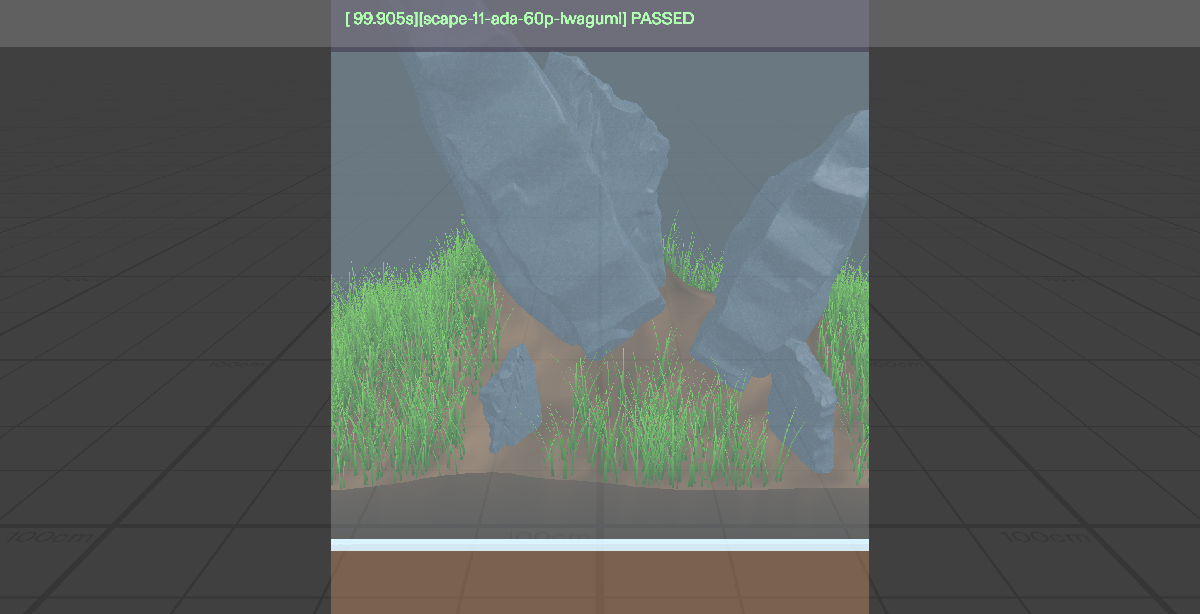
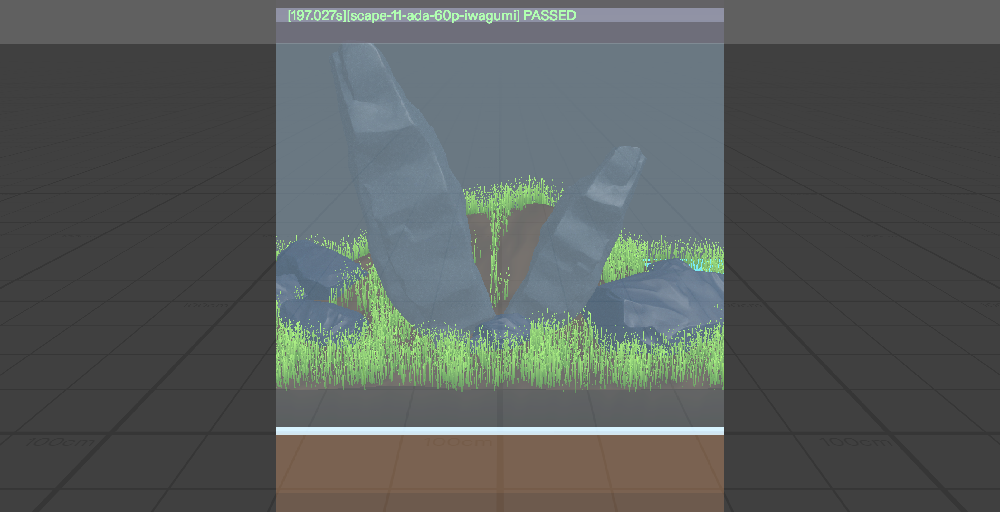
feat: dark slate stone, lawn-like hairgrass, photo-faithful ADA 60P layout
- New Meshy model: flat dark slate (Slate in the Stones tab).
- Hairgrass: shorter, denser, finer, brighter and upright; grass grows up to
  the stone foot; darker soil.
- Spawn falls back to the least-overlapping spot; mounds may run into the
  glass; Seiryu darker.
- Main.moveSelectedTo for scripted layouts; the ADA scenario now places the
  ten stones and the soil ridge where they are in the reference photo.

Changed region(s): [[0.0, 0.0, 1.0, 0.9062], [0.682, 0.25, 0.744, 0.3125], [0.682, 0.1875, 0.744, 0.2188]]

diff --git a/Assets/Tests/ScapePlannerAdaScenario.ts b/Assets/Tests/ScapePlannerAdaScenario.ts
@@ -3,7 +3,8 @@
 // substrate mounded toward the middle and back, and dwarf hairgrass over the whole floor.
 // It asserts nothing; it is a showcase and a check that the tools are enough.
 import { Scenario } from "Leaf.lspkg/Scenarios/scenario/Scenario";
-import { sleep } from "Leaf.lspkg/Utils/common/Utils";
+import { findSceneObjectsByName, sleep } from "Leaf.lspkg/Utils/common/Utils";
+import { ScapePlannerMain } from "../Scripts/ScapePlannerMain";
 import { ScapePlannerLeafInteractor } from "./ScapePlannerLeafInteractor";
 
 @component
@@ -30,38 +31,65 @@ export class ScapePlannerAdaScenario extends Scenario {
     await sleep(holdMs);
   }
 
+  /** Place a slate, size it (+ bigger, - smaller), turn it, optionally mirror it, and drag it to (x, z). */
+  private async slate(x: number, z: number, size: number, turns: number, mirror: boolean): Promise<void> {
+    await this.place("slate");
+    if (size > 0) await this.tap("Button_bigger", size);
+    if (size < 0) await this.tap("Button_smaller", -size);
+    if (turns > 0) await this.tap("Button_rotate", turns);
+    if (mirror) await this.tap("Button_mirror");
+    await this.moveTo("Piece_Slate", x, z);
+  }
+
+  /**
+   * Put the selected (just placed) piece at tank-local (x, z). LEAF drags cannot land on a
+   * precise spot, so the showcase uses Main's scripted move, which ends like a drag release.
+   */
+  private async moveTo(_name: string, x: number, z: number): Promise<void> {
+    const main = findSceneObjectsByName("ScapePlanner")[0].getComponent(ScapePlannerMain.getTypeName()) as ScapePlannerMain;
+    main.moveSelectedTo(x, z);
+    await sleep(150);
+  }
+
   async run(): Promise<void> {
     await sleep(1000);
     await this.tap("Button_clear");
 
-    // Substrate: a soil ridge through the middle and back, sand left plain at the front corners.
+    // Substrate: a low soil ridge across the middle and back.
     await this.place("soil");
-    await this.tap("Button_bigger", 2);
+    await this.moveTo("Piece_Soil", -10, -6);
     await this.place("soil");
-    await this.tap("Button_bigger", 1);
+    await this.moveTo("Piece_Soil", 8, -7);
     await this.place("soil");
+    await this.moveTo("Piece_Soil", 0, -10);
 
-    // Main stone (Oyaishi): left third, tall, leaning out to the left.
+    // Main stone (Oyaishi): left of centre, tall, leaning gently out to the left.
     await this.place("seiryu");
     await this.tap("Button_bigger", 2);
     await this.tap("Button_rotate", 18); // 270 degrees: the lean points left
-    await this.tap("Button_lean", 3);
-    // Second stone (Fukuishi): right of centre, leaning out to the right, mirrored for a different face.
+    await this.tap("Button_lean", 2);
+    await this.moveTo("Piece_Seiryu", -9, 0);
+    // Second stone (Fukuishi): right of centre, leaning harder out to the right, mirrored for a different face.
     await this.place("seiryu");
     await this.tap("Button_bigger", 3);
     await this.tap("Button_mirror");
     await this.tap("Button_rotate", 6); // 90 degrees: the lean points right
     await this.tap("Button_lean", 3);
-    // Small stones (Soeishi and Suteishi) at their feet.
-    await this.place("seiryu");
-    await this.tap("Button_smaller", 1);
-    await this.tap("Button_rotate", 3);
-    await this.place("seiryu");
-    await this.tap("Button_smaller", 1);
-    await this.tap("Button_mirror");
-    await this.place("seiryu");
-    await this.tap("Button_smaller", 2);
-    await this.tap("Button_rotate", 8);
+    await this.moveTo("Piece_Seiryu", 8, -1);
+
+    // Flat slate: a slab split off under the right stone, one at the left stone's foot.
+    await this.slate(18, 2, 1, 2, false);
+    await this.slate(-18, 4, 0, 22, false);
+    // Back stones: a rounded one at the back right, a lower one at the back left.
+    await this.slate(20, -8, 2, 5, false);
+    await this.slate(-20, -9, -1, 9, true);
+    // Edge stones, cut off by the side glass in the photo.
+    await this.slate(-28, -3, 0, 4, false);
+    await this.slate(28, -2, 0, 14, true);
+    // Chips between the two main stones.
+    await this.slate(1, 5, -4, 3, false);
+    await this.slate(4, 3, -4, 9, true);
+    await this.slate(-2, 7, -5, 15, false);
 
     // Dwarf hairgrass over the whole floor, row by row from the front glass.
     for (let i = 0; i < 21; i++) await this.place("hairgrass", 100);

diff --git a/Assets/Scripts/ScapePlannerMain.ts b/Assets/Scripts/ScapePlannerMain.ts
@@ -72,6 +72,7 @@ export class ScapePlannerMain extends BaseScriptComponent {
   @input prefabDownoi!: ObjectPrefab;
   @input prefabLotus!: ObjectPrefab;
   @input prefabStaurogyne!: ObjectPrefab;
+  @input prefabSlate!: ObjectPrefab;
 
   @ui.label("Placement")
   @input
@@ -198,6 +199,18 @@ export class ScapePlannerMain extends BaseScriptComponent {
     }
     this.tank.setMounds(mounds);
     for (const p of this.pieces) if (p.entry.render !== "mound") p.reseat();
+  }
+
+  /**
+   * Put the selected piece at tank-local (x, z) and finish it like a drag release. Used by
+   * scripted layouts (LEAF showcases), where a precise drag is not possible.
+   */
+  moveSelectedTo(x: number, z: number): void {
+    const piece = this.selected;
+    if (!piece) return;
+    if (piece.host) piece.detach();
+    piece.setLocal(x, z);
+    this.pieceMoved(piece);
   }
 
   scaleSelected(factor: number): void {
@@ -347,22 +360,30 @@ export class ScapePlannerMain extends BaseScriptComponent {
     const maxZ = Math.max(0, this.tank.halfDepth - d / 2 - 0.6);
     const isMound = entry.render === "mound";
     const infos = this.pieces.filter((p) => (p.entry.render === "mound") === isMound && !p.host && p.entry.render !== "carpet").map((p) => p.info());
-    // Rows: the zone's own depth first, then in front of it, then behind it.
+    // Rows: the zone's own depth first, then in front of it, then behind it. If nothing is
+    // free, the spot with the least overlap wins.
+    let fallback = { x: SPAWN_X_CM[SPAWN_X_CM.length - 1], z: zoneZ };
+    let leastOverlap = Infinity;
     for (const dz of SPAWN_Z_OFFSETS_CM) {
       const z = Math.max(-maxZ, Math.min(maxZ, zoneZ + dz));
       for (const x of SPAWN_X_CM) {
         let free = true;
+        let overlapArea = 0;
         for (const p of infos) {
           // Mounds may overlap by half so they merge into one ridge; other pieces keep clear.
           const reach = isMound ? 0.25 : 0.5;
           const overlapX = Math.abs(p.x - x) < (p.width + w) * reach;
           const overlapZ = Math.abs(p.z - z) < (p.depth + d) * reach;
-          if (overlapX && overlapZ) { free = false; break; }
+          if (overlapX && overlapZ) {
+            free = false;
+            overlapArea += ((p.width + w) * reach - Math.abs(p.x - x)) * ((p.depth + d) * reach - Math.abs(p.z - z));
+          }
         }
         if (free) return { x, z };
+        if (overlapArea < leastOverlap) { leastOverlap = overlapArea; fallback = { x, z }; }
       }
     }
-    return { x: SPAWN_X_CM[SPAWN_X_CM.length - 1], z: zoneZ };
+    return fallback;
   }
 
 
@@ -449,6 +470,7 @@ export class ScapePlannerMain extends BaseScriptComponent {
       case "downoi": return this.prefabDownoi;
       case "lotus": return this.prefabLotus;
       case "staurogyne": return this.prefabStaurogyne;
+      case "slate": return this.prefabSlate;
     }
     return null;
   }

diff --git a/Assets/Scripts/ScapePlannerCatalog.ts b/Assets/Scripts/ScapePlannerCatalog.ts
@@ -83,12 +83,13 @@ export const CATALOG: CatalogEntry[] = [
   mound("soil", "Soil", "soil", 13, 6, "background"),
   mound("sand", "Sand", "sand", 9, 1.5, "foreground"),
   // ── stones ──
-  stone("seiryu", "Seiryu", "Seiryu stone", "seiryu", 12.5, 22, 6.8, new vec4(0.62, 0.68, 0.75, 1)),
+  stone("seiryu", "Seiryu", "Seiryu stone", "seiryu", 12.5, 22, 6.8, new vec4(0.38, 0.43, 0.5, 1)),
   stone("dragon", "Dragon", "Dragon stone", "dragon", 20, 17, 12),
   stone("lava", "Lava", "Lava rock", "lava", 14, 12, 12),
   stone("frodo", "Frodo", "Frodo stone", "frodo", 16, 18, 12),
   stone("elephant", "Elephant", "Elephant skin", "elephant", 20, 14, 14),
   stone("pagoda", "Pagoda", "Pagoda stone", "pagoda", 16, 18, 12),
+  stone("slate", "Slate", "Dark slate (flat)", "slate", 16, 6, 10, new vec4(0.45, 0.48, 0.55, 1)),
   // ── wood ──
   wood("spiderwood", "Spider", "Spider wood", "spiderwood", 28, 18, 22),
   wood("manzanita", "Manzanita", "Manzanita", "manzanita", 30, 20, 14),
@@ -99,7 +100,7 @@ export const CATALOG: CatalogEntry[] = [
   carpet("carpet", "MonteCarl", "Monte Carlo", 10, { style: "leaves", heightCm: 2.2, density: 2.2, baseRgb: [0.16, 0.42, 0.12], tipRgb: [0.45, 0.8, 0.3] }, 3),
   carpet("hccuba", "HC Cuba", "Hemianthus Cuba", 10, { style: "leaves", heightCm: 1.6, density: 3.2, baseRgb: [0.2, 0.5, 0.14], tipRgb: [0.55, 0.9, 0.35] }, 2.5),
   carpet("glosso", "Glosso", "Glossostigma", 10, { style: "leaves", heightCm: 2.5, density: 1.8, baseRgb: [0.12, 0.38, 0.12], tipRgb: [0.4, 0.72, 0.3] }, 4),
-  carpet("hairgrass", "Hairgrass", "Dwarf hairgrass", 10, { style: "blades", heightCm: 4.5, density: 6, baseRgb: [0.08, 0.3, 0.06], tipRgb: [0.38, 0.78, 0.2] }, 6),
+  carpet("hairgrass", "Hairgrass", "Dwarf hairgrass", 10, { style: "blades", heightCm: 3.2, density: 11, baseRgb: [0.2, 0.46, 0.08], tipRgb: [0.6, 0.92, 0.28] }, 6),
   carpet("lilaeopsis", "Lilaeops", "Lilaeopsis", 10, { style: "blades", heightCm: 3.5, density: 4.5, baseRgb: [0.1, 0.32, 0.1], tipRgb: [0.42, 0.75, 0.28] }, 5),
   // ── midground ──
   plant("bush", "Crypt", "Cryptocoryne wendtii", "bush", "midground", "mid", "midground", 12, 12, 12, 15, { broad: true }),

diff --git a/Assets/Scripts/ScapePlannerCarpet.ts b/Assets/Scripts/ScapePlannerCarpet.ts
@@ -18,7 +18,7 @@ export interface CarpetSpec {
 
 /** How far blades may stand outside the tile, as a fraction of the tile size. */
 const FRAY = 0.12;
-const BLADE_SEGMENTS = 3;
+const BLADE_SEGMENTS = 2;
 
 /** Small deterministic PRNG (mulberry32). */
 export function seededRandom(seed: number): () => number {
@@ -59,16 +59,16 @@ export function buildCarpetMesh(builder: MeshBuilder, spec: CarpetSpec, widthCm:
 }
 
 function addBlade(verts: number[], idx: number[], spec: CarpetSpec, x: number, y: number, z: number, rand: () => number): void {
-  const h = spec.heightCm * (0.55 + 0.6 * rand());
-  const width = 0.14 + 0.1 * rand();
+  const h = spec.heightCm * (0.75 + 0.4 * rand());
+  const width = 0.08 + 0.06 * rand();
   const dir = rand() * Math.PI * 2;
-  const bend = (0.15 + 0.35 * rand()) * h;
+  const bend = (0.05 + 0.2 * rand()) * h;
   const bx = Math.cos(dir);
   const bz = Math.sin(dir);
   // The blade's flat side faces sideways to the bend so it reads from most angles.
   const px = -bz;
   const pz = bx;
-  const shade = 0.75 + 0.3 * rand();
+  const shade = 0.85 + 0.25 * rand();
   const start = verts.length / 10;
   for (let s = 0; s <= BLADE_SEGMENTS; s++) {
     const t = s / BLADE_SEGMENTS;

diff --git a/Assets/Scripts/ScapePlannerPiece.ts b/Assets/Scripts/ScapePlannerPiece.ts
@@ -365,6 +365,12 @@ export class ScapePlannerPiece {
   }
 
   private clampXZ(x: number, z: number, e: vec3): { x: number; z: number } {
+    if (this.entry.render === "mound") {
+      // A mound may run into the glass; only its centre stays inside.
+      const mx = this.tank.halfWidth - 1;
+      const mz = this.tank.halfDepth - 1;
+      return { x: Math.max(-mx, Math.min(mx, x)), z: Math.max(-mz, Math.min(mz, z)) };
+    }
     const maxX = Math.max(0, this.tank.halfWidth - e.x / 2 - WALL_MARGIN_CM);
     const maxZ = Math.max(0, this.tank.halfDepth - e.z / 2 - WALL_MARGIN_CM);
     return { x: Math.max(-maxX, Math.min(maxX, x)), z: Math.max(-maxZ, Math.min(maxZ, z)) };

diff --git a/Assets/Scripts/ScapePlannerTank.ts b/Assets/Scripts/ScapePlannerTank.ts
@@ -172,7 +172,7 @@ export class ScapePlannerTank extends BaseScriptComponent {
     for (const p of points) {
       const i = Math.floor(p.x / GRASS_CELL_CM);
       const j = Math.floor(p.y / GRASS_CELL_CM);
-      for (let di = -1; di <= 1; di++) for (let dj = -1; dj <= 1; dj++) cells.add((i + di) + "," + (j + dj));
+      cells.add(i + "," + j);
     }
     this.grassBlockers = cells;
   }

diff --git a/Assets/Scripts/ScapePlannerSubstrate.ts b/Assets/Scripts/ScapePlannerSubstrate.ts
@@ -17,7 +17,7 @@ export interface Mound {
   material: MoundMaterial;
 }
 
-const SOIL_RGB = [0.42, 0.3, 0.2];
+const SOIL_RGB = [0.27, 0.19, 0.13];
 const SAND_RGB = [0.86, 0.78, 0.6];
 /** Below this much sand on top, a vertex reads as soil. */
 const SAND_VISIBLE_CM = 0.25;
